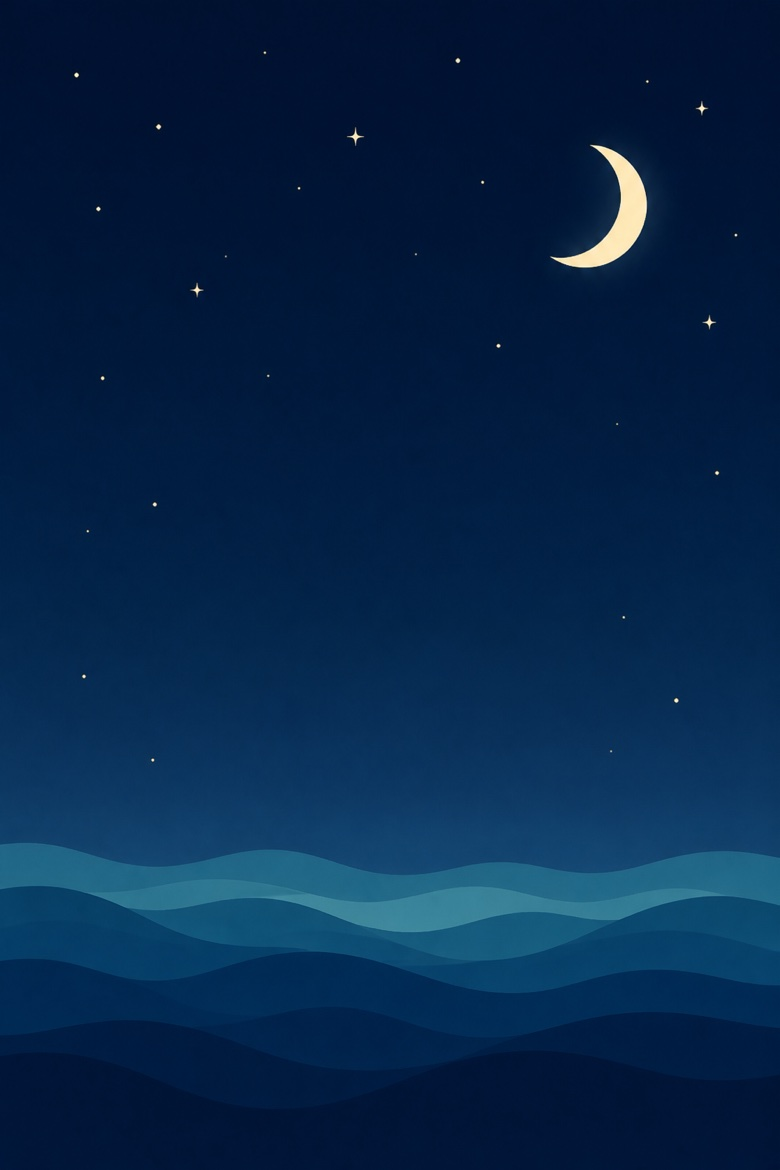
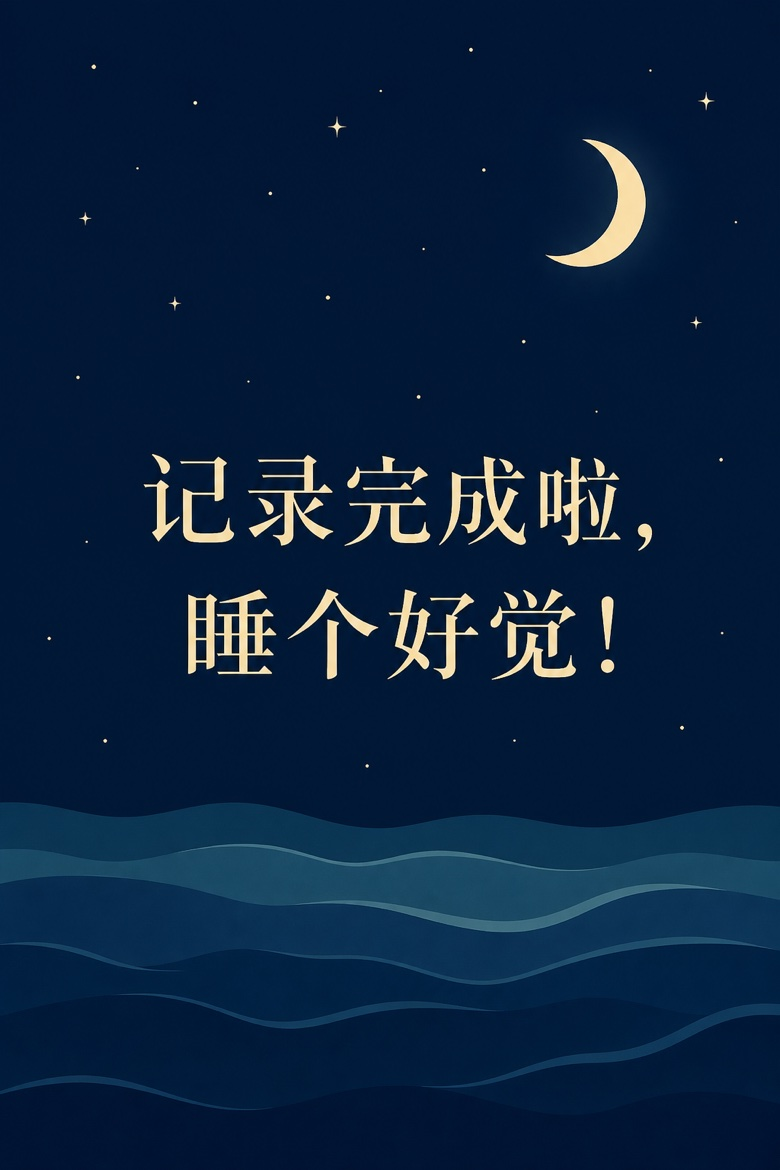
Restore illustrated completion art and add widescreen variants.

diff --git a/styles.css b/styles.css
@@ -722,7 +722,7 @@ body:has(.debug-panel) #app {
   z-index: 70;
   display: flex;
   flex-direction: column;
-  justify-content: space-between;
+  justify-content: flex-end;
   background-color: #0b1220;
   background-size: cover;
   background-position: center;
@@ -743,37 +743,15 @@ body:has(.debug-panel) #app {
   background-color: #fff3d1;
 }
 
-.complete-copy {
-  flex: 1;
-  display: flex;
-  flex-direction: column;
-  align-items: center;
-  justify-content: center;
-  padding: 0 28px;
-  text-align: center;
-  pointer-events: none;
-}
+/* Wide screens get the landscape artwork instead of the phone one */
+@media (min-aspect-ratio: 1/1) {
+  .complete-screen.is-night {
+    background-image: url("complete-night-wide.jpg");
+  }
 
-.complete-line1,
-.complete-line2 {
-  margin: 0;
-  font-family: var(--serif);
-  font-weight: 600;
-  font-size: clamp(1.35rem, 5.2vw, 1.75rem);
-  line-height: 1.45;
-  letter-spacing: 0.02em;
-}
-
-.complete-screen.is-night .complete-line1,
-.complete-screen.is-night .complete-line2 {
-  color: #f4f1e8;
-  text-shadow: 0 1px 10px rgba(0, 0, 0, 0.35);
-}
-
-.complete-screen.is-day .complete-line1,
-.complete-screen.is-day .complete-line2 {
-  color: #3d2e14;
-  text-shadow: 0 1px 8px rgba(255, 248, 230, 0.65);
+  .complete-screen.is-day {
+    background-image: url("complete-day-wide.jpg");
+  }
 }
 
 .complete-actions {

diff --git a/app.js b/app.js
@@ -719,10 +719,6 @@
     if (!elComplete) return;
     elComplete.classList.remove("is-night", "is-day");
     elComplete.classList.add(kind === "aset" ? "is-night" : "is-day");
-    const line2 = document.getElementById("complete-line2");
-    if (line2) {
-      line2.textContent = kind === "aset" ? "睡个好觉！" : "新的一天！";
-    }
     elComplete.hidden = false;
     document.body.classList.add("complete-open");
     editingAfterComplete = false;

diff --git a/index.html b/index.html
@@ -48,10 +48,6 @@
   </div>
 
   <div id="complete-screen" class="complete-screen" hidden>
-    <div class="complete-copy">
-      <p class="complete-line1">记录完成啦，</p>
-      <p class="complete-line2" id="complete-line2">睡个好觉！</p>
-    </div>
     <div class="complete-actions">
       <button type="button" class="btn complete-btn complete-btn-edit" id="btn-complete-edit">我要修改</button>
     </div>
